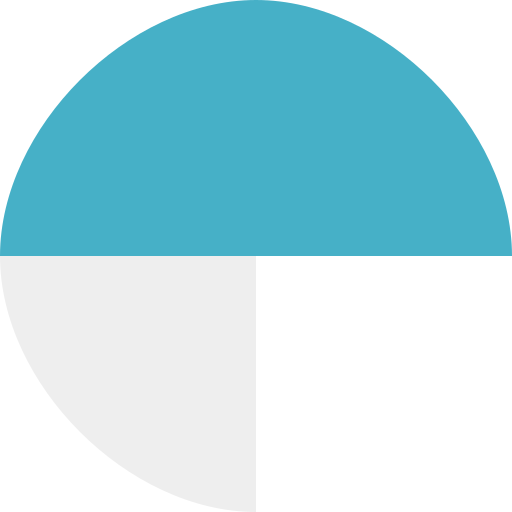
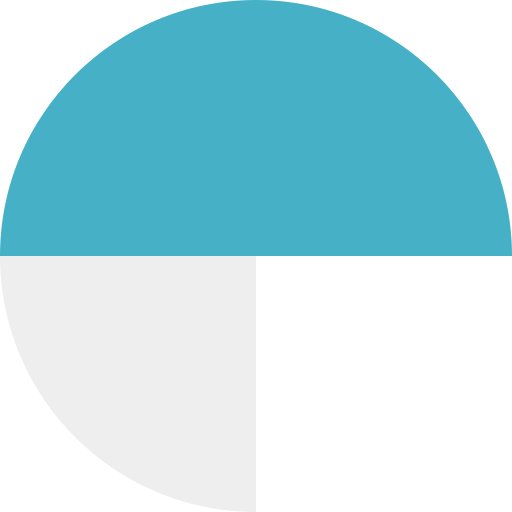
:page_facing_up: Add README
* Fix repo logo.
* Added `README.md`

diff --git a/README.md b/README.md
@@ -1,0 +1,17 @@
+# CV
+
+![Repository Logo][repo-logo]
+
+![Canadian Flag][en-Logo]
+The English version of the résume is [here][cv-en].
+The French version is [here][cv-fr].
+
+![French Flag][fr-Logo]
+La version française du CV peut être trouvé [ici][cv-fr].
+La version anglaise peut être téléchargé [ici][cv-en].
+
+[repo-logo]: images/cv48.png
+[en-logo]: images/flag-ca48.png
+[fr-logo]: images/flag-fr48.png
+[cv-en]: cv.en.pdf
+[cv-fr]: cv.fr.pdf
